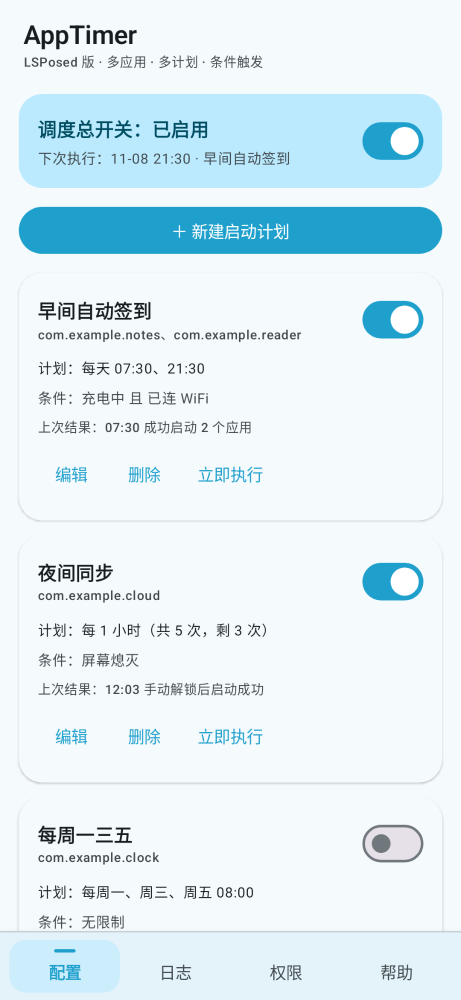
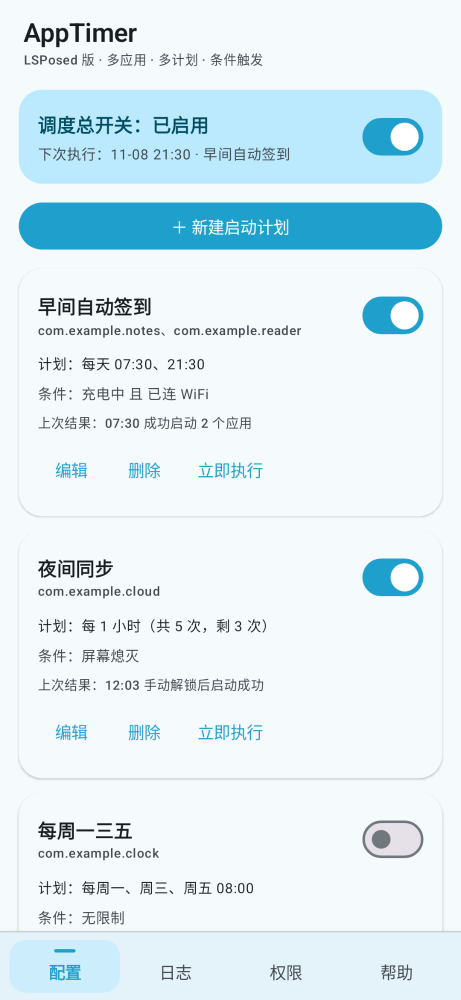
lsposed: 子页标题栏返回独占一行、标题左对齐（2.2.2/24）

diff --git a/lsposed/app/src/main/java/com/appscheduler/lsposed/ui/Common.kt b/lsposed/app/src/main/java/com/appscheduler/lsposed/ui/Common.kt
@@ -9,6 +9,7 @@ import androidx.compose.foundation.layout.Row
 import androidx.compose.foundation.layout.RowScope
 import androidx.compose.foundation.layout.Spacer
 import androidx.compose.foundation.layout.fillMaxWidth
+import androidx.compose.foundation.layout.height
 import androidx.compose.foundation.layout.padding
 import androidx.compose.foundation.layout.width
 import androidx.compose.foundation.shape.RoundedCornerShape
@@ -17,7 +18,6 @@ import androidx.compose.material3.CardDefaults
 import androidx.compose.material3.MaterialTheme
 import androidx.compose.material3.Switch
 import androidx.compose.material3.Text
-import androidx.compose.material3.TextButton
 import androidx.compose.runtime.Composable
 import androidx.compose.ui.Alignment
 import androidx.compose.ui.Modifier
@@ -25,7 +25,7 @@ import androidx.compose.ui.draw.clip
 import androidx.compose.ui.text.font.FontWeight
 import androidx.compose.ui.unit.dp
 
-/** 页面标题栏，返回按钮与右侧操作区都可选 */
+/** 页面标题栏，返回按钮与右侧操作区都可选；返回独占一行，标题与副标题左对齐 */
 @Composable
 fun ScreenHeader(
     title: String,
@@ -33,27 +33,41 @@ fun ScreenHeader(
     onBack: (() -> Unit)? = null,
     actions: (@Composable RowScope.() -> Unit)? = null
 ) {
-    Row(
+    Column(
         modifier = Modifier
             .fillMaxWidth()
-            .padding(horizontal = 4.dp, vertical = 8.dp),
-        verticalAlignment = Alignment.CenterVertically
+            .padding(horizontal = 4.dp, vertical = 6.dp)
     ) {
         if (onBack != null) {
-            TextButton(onClick = onBack) { Text("← 返回") }
-        }
-        Column(modifier = Modifier.weight(1f)) {
-            Text(title, style = MaterialTheme.typography.titleLarge, fontWeight = FontWeight.SemiBold)
-            if (subtitle != null) {
+            Row(
+                modifier = Modifier
+                    .clip(RoundedCornerShape(50))
+                    .clickable(onClick = onBack)
+                    .padding(vertical = 6.dp),
+                verticalAlignment = Alignment.CenterVertically
+            ) {
                 Text(
-                    subtitle,
-                    style = MaterialTheme.typography.labelSmall,
-                    color = MaterialTheme.colorScheme.onSurfaceVariant
+                    "← 返回",
+                    style = MaterialTheme.typography.labelLarge,
+                    color = MaterialTheme.colorScheme.primary
                 )
             }
+            Spacer(Modifier.height(2.dp))
         }
-        if (actions != null) {
-            actions()
+        Row(modifier = Modifier.fillMaxWidth(), verticalAlignment = Alignment.CenterVertically) {
+            Column(modifier = Modifier.weight(1f)) {
+                Text(title, style = MaterialTheme.typography.titleLarge, fontWeight = FontWeight.SemiBold)
+                if (subtitle != null) {
+                    Text(
+                        subtitle,
+                        style = MaterialTheme.typography.labelSmall,
+                        color = MaterialTheme.colorScheme.onSurfaceVariant
+                    )
+                }
+            }
+            if (actions != null) {
+                actions()
+            }
         }
     }
 }

diff --git a/lsposed/app/src/main/java/com/appscheduler/lsposed/ui/HelpScreen.kt b/lsposed/app/src/main/java/com/appscheduler/lsposed/ui/HelpScreen.kt
@@ -35,8 +35,8 @@ enum class HelpPage(val title: String) {
 /** 关于页要展示的软件信息，由调用方填，方便截图测试注入固定值 */
 data class AboutInfo(
     val appName: String = "AppTimer",
-    val versionName: String = "2.2.1",
-    val versionCode: Long = 23,
+    val versionName: String = "2.2.2",
+    val versionCode: Long = 24,
     val packageName: String = "com.appscheduler.lsposed",
     val minSdk: Int = 26,
     val repoUrl: String = "https://github.com/alearners/magisk-app-scheduler",

diff --git a/lsposed/README.md b/lsposed/README.md
@@ -77,7 +77,7 @@ JSON 结构（`schema=1`）：
 | --- | --- |
 | applicationId | `com.appscheduler.lsposed` |
 | 显示名 | `AppTimer` |
-| 版本 | `versionCode 23` / `versionName 2.2.1` |
+| 版本 | `versionCode 24` / `versionName 2.2.2` |
 | 最低支持 | Android 8.0（API 26） |
 | 目标 SDK | 34 |
 | 签名 | 仓库固定密钥（`CN=App Scheduler, O=alearners, C=CN`），证书 SHA-256 `10948BFB9…000B2E5` |
